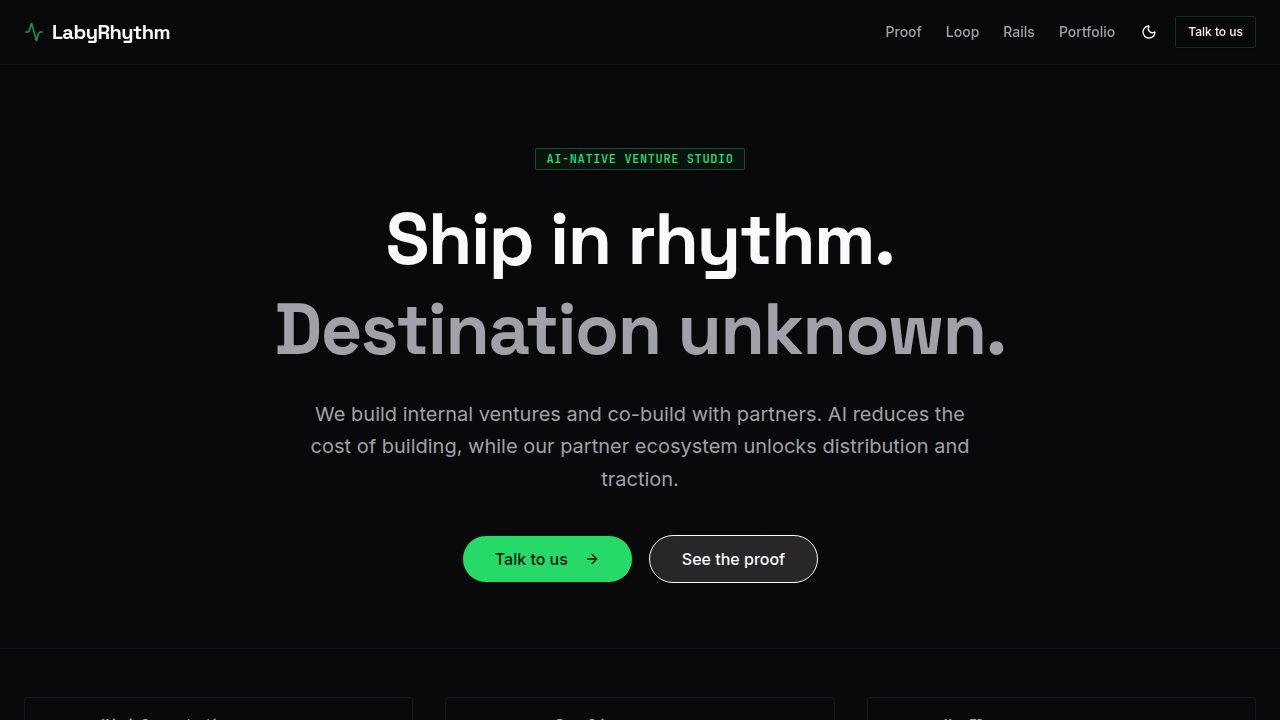
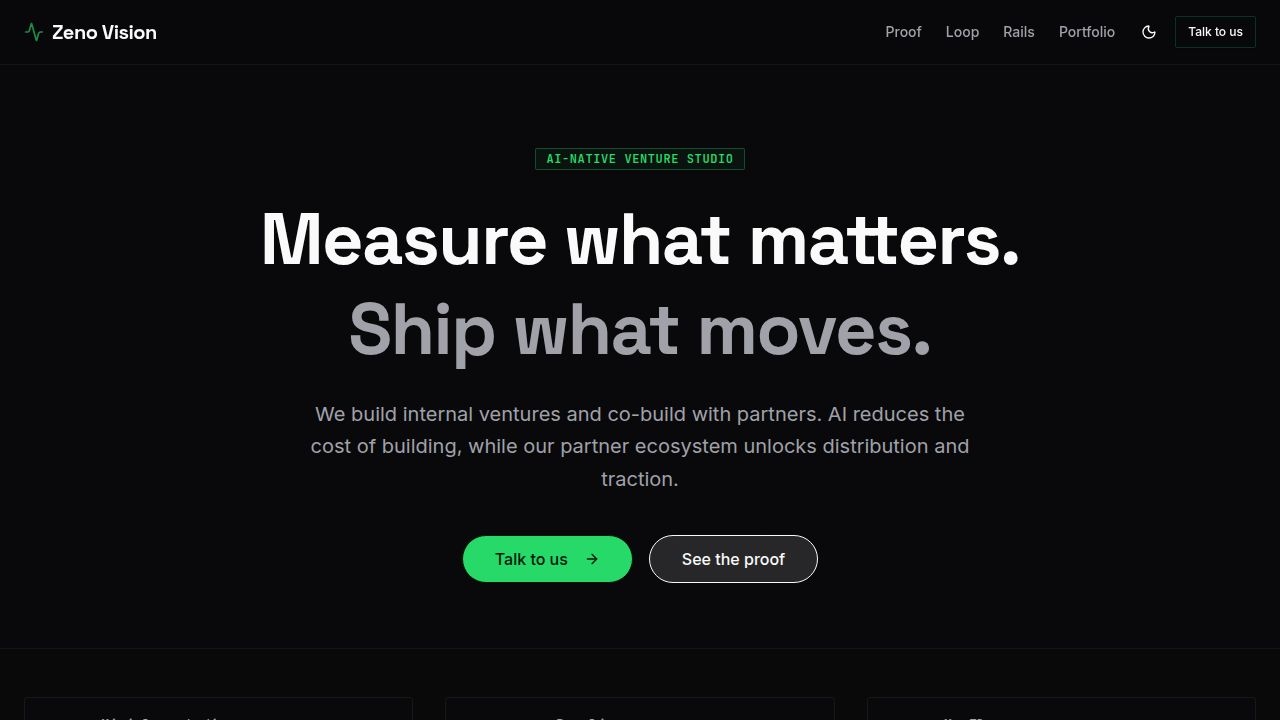
Rename LabyRhythm to Zeno Vision and update branding
Rename project from LabyRhythm to Zeno Vision, updating titles, descriptions, and UI elements across the application.

Replit-Commit-Author: Agent
Replit-Commit-Session-Id: 14a63a69-f3dd-4449-a6dc-338a8adadbdd
Replit-Commit-Checkpoint-Type: full_checkpoint
Replit-Commit-Event-Id: 3dc46bf1-ba18-41c5-86ac-2cf27dbcc741
Replit-Commit-Screenshot-Url: https://storage.googleapis.com/screenshot-production-us-central1/4f4f9012-dcda-40b1-bf47-ed13ac9763ff/14a63a69-f3dd-4449-a6dc-338a8adadbdd/xG9wcxO
Replit-Helium-Checkpoint-Created: true

Changed region(s): [[0.1875, 0.275, 0.8125, 0.3972], [0.2188, 0.3972, 0.7812, 0.5194], [0.0312, 0.0306, 0.125, 0.0611]]

diff --git a/client/src/pages/home.tsx b/client/src/pages/home.tsx
@@ -53,7 +53,7 @@ const Navbar = () => (
     <div className="container mx-auto px-6 h-16 flex items-center justify-between">
       <div className="flex items-center gap-2">
         <Activity className="w-5 h-5 text-primary animate-pulse" />
-        <span className="font-heading font-bold text-xl tracking-tight">LabyRhythm</span>
+        <span className="font-heading font-bold text-xl tracking-tight">Zeno Vision</span>
       </div>
       <div className="flex items-center gap-4">
         <div className="hidden md:flex items-center gap-6 text-sm font-medium text-muted-foreground">
@@ -89,8 +89,8 @@ const Hero = () => {
             AI-Native Venture Studio
           </Badge>
           <h1 className="text-5xl md:text-7xl font-bold font-heading leading-tight mb-6 tracking-tight">
-            Ship in rhythm. <br />
-            <span className="text-muted-foreground">Destination unknown.</span>
+            Measure what matters. <br />
+            <span className="text-muted-foreground">Ship what moves.</span>
           </h1>
           <p className="text-lg md:text-xl text-muted-foreground max-w-2xl mx-auto mb-10 leading-relaxed">
             We build internal ventures and co-build with partners.
@@ -146,7 +146,7 @@ const ProofStrip = () => {
 const Introduction = () => (
   <section className="py-24">
     <div className="container mx-auto px-6 max-w-3xl">
-      <h2 className="text-3xl font-bold mb-6 font-heading">What is LabyRhythm?</h2>
+      <h2 className="text-3xl font-bold mb-6 font-heading">What is Zeno Vision?</h2>
       <p className="text-lg text-muted-foreground mb-8 leading-relaxed">
         We are a venture studio that ships internal products and co-builds with ecosystem partners.
         By leveraging partner rails, we run rapid traction experiments to validate ideas before scaling.
@@ -285,7 +285,7 @@ const WhatWeDo = () => (
 const WhyUs = () => (
   <section className="py-24">
     <div className="container mx-auto px-6 max-w-4xl">
-      <h2 className="text-3xl font-bold font-heading mb-10 text-center">Why LabyRhythm?</h2>
+      <h2 className="text-3xl font-bold font-heading mb-10 text-center">Why Zeno Vision?</h2>
       <div className="grid grid-cols-1 md:grid-cols-2 gap-6">
         {[
           "Demonstrated shipping velocity (multiple live products)",
@@ -444,7 +444,7 @@ const InterestForm = () => {
       
       <div className="container mx-auto px-6 max-w-2xl">
         <div className="text-center mb-10">
-          <h2 className="text-3xl md:text-4xl font-bold font-heading mb-4">Interested in LabyRhythm?</h2>
+          <h2 className="text-3xl md:text-4xl font-bold font-heading mb-4">Interested in Zeno Vision?</h2>
           <p className="text-muted-foreground">
             We’re sharing this to get feedback and find high-fit partners, investors, and collaborators.
           </p>
@@ -610,13 +610,13 @@ const Footer = () => (
     <div className="container mx-auto px-6">
       <div className="flex items-center justify-center gap-2 mb-6 opacity-50">
         <Activity className="w-5 h-5" />
-        <span className="font-heading font-bold">LabyRhythm</span>
+        <span className="font-heading font-bold">Zeno Vision</span>
       </div>
       <p className="font-heading text-lg mb-8 max-w-xl mx-auto text-foreground/80">
         “Experiment with consistency, even when the destination is unknown.”
       </p>
       <div className="text-sm text-muted-foreground space-y-2 font-mono">
-        <a href="mailto:hello@labyrhythm.xyz" className="hover:text-primary transition-colors">Contact Us</a>
+        <a href="mailto:hello@zenovision.xyz" className="hover:text-primary transition-colors">Contact Us</a>
         <p className="text-xs opacity-50 mt-4">For feedback purposes. Not investment advice.</p>
       </div>
     </div>

diff --git a/client/index.html b/client/index.html
@@ -4,17 +4,17 @@
     <meta charset="UTF-8" />
     <meta name="viewport" content="width=device-width, initial-scale=1.0, maximum-scale=1" />
 
-    <title>LabyRhythm | AI-native Web3 Venture Studio</title>
-    <meta name="description" content="Experiment with consistency, even when the destination is unknown. LabyRhythm is an AI-native venture studio building partner-powered distribution rails." />
+    <title>Zeno Vision | AI-native Web3 Venture Studio</title>
+    <meta name="description" content="Measure what matters. Ship what moves. Zeno Vision is an AI-native venture studio building partner-powered distribution rails." />
 
-    <meta property="og:title" content="LabyRhythm | AI-native Web3 Venture Studio" />
-    <meta property="og:description" content="Experiment with consistency, even when the destination is unknown. Partner-powered distribution rails for rapid traction." />
+    <meta property="og:title" content="Zeno Vision | AI-native Web3 Venture Studio" />
+    <meta property="og:description" content="Measure what matters. Ship what moves. Partner-powered distribution rails for rapid traction." />
     <meta property="og:type" content="website" />
     <meta property="og:image" content="https://replit.com/public/images/opengraph.png" />
     <meta name="twitter:card" content="summary_large_image" />
     <meta name="twitter:site" content="@replit" />
-    <meta name="twitter:title" content="LabyRhythm | AI-native Web3 Venture Studio" />
-    <meta name="twitter:description" content="Experiment with consistency, even when the destination is unknown. Partner-powered distribution rails for rapid traction." />
+    <meta name="twitter:title" content="Zeno Vision | AI-native Web3 Venture Studio" />
+    <meta name="twitter:description" content="Measure what matters. Ship what moves. Partner-powered distribution rails for rapid traction." />
     <meta name="twitter:image" content="https://replit.com/public/images/opengraph.png" />
 
     <link rel="icon" type="image/png" href="/favicon.png" />
